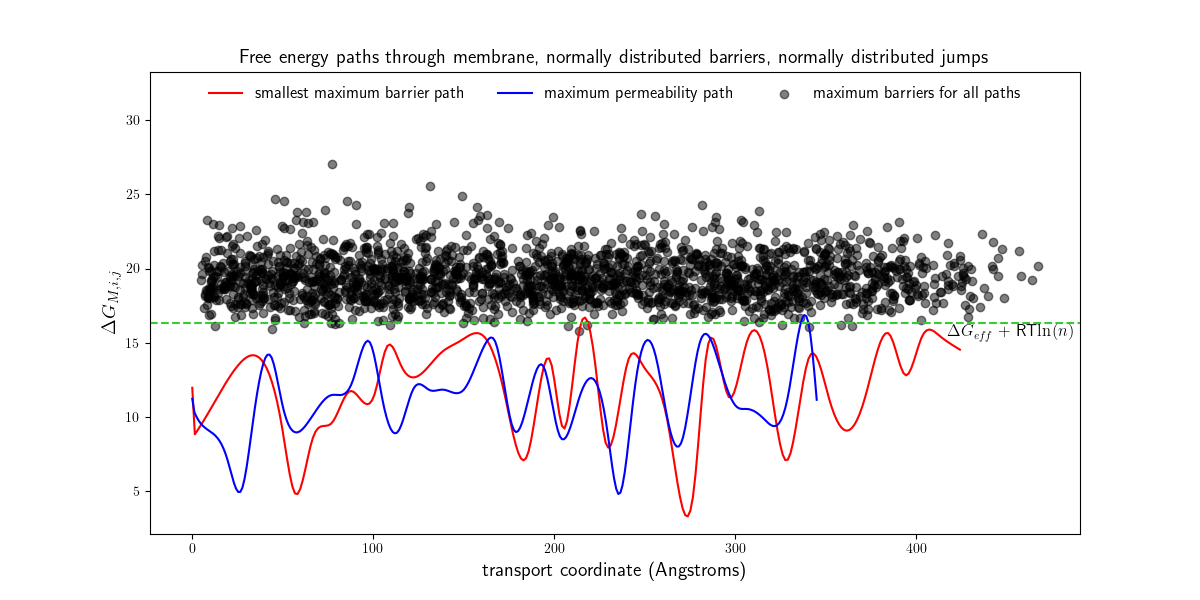
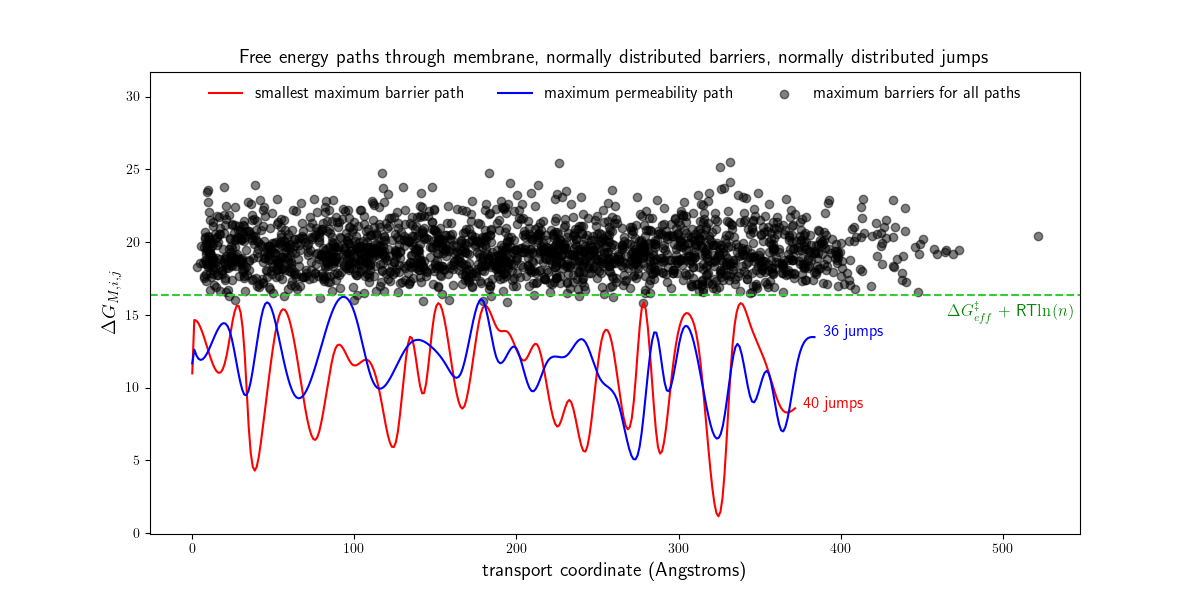
overall permeability is average of pores

diff --git a/run_analyses.py b/run_analyses.py
@@ -20,8 +20,8 @@ R = 1.9858775 * 10**-3     # universal gas (kcal / mol K)
 
 def parallel_pores(dH_barrier, dS_barrier, dH_sigma, dS_sigma, dG_barrier, T=300, multi=True):
 
-    n_paths = 50
-    n_jumps = 50
+    n_paths = 2000
+    n_jumps = 200
     fill = True
 
     print(f'\nCalculating effective barriers and fractions of permeability for {n_paths} paths through the membrane...')
@@ -136,29 +136,32 @@ def parallel_pores(dH_barrier, dS_barrier, dH_sigma, dS_sigma, dG_barrier, T=300
     # PLOTTING
 
     # plot the effective barrier, max barrier, and mean barrier
-    ax[0].axvline(effective_barrier_equal+R*T*np.log(n_paths), ls='dashed', c='k', label='$\Delta G_{eff}^{\ddag} + RT\ln(n)$', lw=2)
+    # ax[0].axvline(effective_barrier_equal+R*T*np.log(n_paths), ls='dashed', c='k', label='$\Delta G_{eff}^{\ddag} + RT\ln(n)$', lw=2)
+    ax[0].axvline(effective_barrier_equal, ls='dashed', c='k', label='$\Delta G_{eff}^{\ddag}$', lw=2)
     ax[0].axvline(dG_barrier, ls='dashed', c='r', label='mean', lw=2)
     ax[0].axvline(dG_barrier, ls='dashed', c='k', gapcolor='red', dashes=[4,4], lw=2)
     ax[0].legend(frameon=False, fontsize=12)
     ax[0].set_ylabel('Density', fontsize=14)
     ax[0].set_title(f'Series of equal barriers, standard deviation = 0 kcal/mol', fontsize=14)
 
-    ax[1].axvline(effective_barrier_norm+R*T*np.log(n_paths), ls='dashed', c='k', label='$\Delta G_{eff}^{\ddag} + RT\ln(n)$', lw=2)
+    # ax[1].axvline(effective_barrier_norm+R*T*np.log(n_paths), ls='dashed', c='k', label='$\Delta G_{eff}^{\ddag} + RT\ln(n)$', lw=2)
+    ax[1].axvline(effective_barrier_norm, ls='dashed', c='k', label='$\Delta G_{eff}^{\ddag}$', lw=2)
     ax[1].axvline(dG_barrier, ls='dashed', c='r', label='mean', lw=2)
     ax[1].legend(frameon=False, fontsize=12)
     ax[1].set_ylabel('Density', fontsize=14)
     ax[1].set_title(f'Normally distributed, standard deviation = {std_norm:.0f} kcal/mol', fontsize=14)
 
-    ax[2].axvline(effective_barrier_exp+R*T*np.log(n_paths), ls='dashed', c='k', label='$\Delta G_{eff}^{\ddag} + RT\ln(n)$', lw=2)
+    # ax[2].axvline(effective_barrier_exp+R*T*np.log(n_paths), ls='dashed', c='k', label='$\Delta G_{eff}^{\ddag} + RT\ln(n)$', lw=2)
+    ax[2].axvline(effective_barrier_exp, ls='dashed', c='k', label='$\Delta G_{eff}^{\ddag}$', lw=2)
     ax[2].axvline(dG_barrier, ls='dashed', c='r', label='mean', lw=2)
     ax[2].legend(frameon=False, fontsize=12)
     ax[2].set_ylabel('Density', fontsize=14)
     ax[2].set_title(f'Exponentially distributed, standard deviation = {std_exp:.0f} kcal/mol', fontsize=14)
 
     ax[2].set_xlabel('$\Delta G_{M,i,j}^{\ddag}$ (kcal/mol)', fontsize=14)
-    ax[2].set_xlim(0,)
+    ax[2].set_xlim(0,75)
 
-    plt.suptitle('Membrane barrier distributions for n=50 parallel paths through membrane', fontsize=14)
+    plt.suptitle(f'Membrane barrier distributions for n={n_paths} parallel paths through membrane', fontsize=14)
 
     print(f'Standard deviations: {std_equal} (equal), {std_norm} (normal), {std_exp} (exponential)')
 
@@ -820,10 +823,6 @@ def vary_everything(n_jumps_mu, jump_dist, jump_params, barrier_dist, barrier_pa
 
     model = EyringModel(T=T)
 
-    if plot:
-        # fig, ax = plt.subplots(2,1, figsize=(12,12))
-        fig, ax = plt.subplots(1,1, figsize=(12,6))
-
     all_barriers = []
     max_barriers = np.zeros((n_paths,2))
 
@@ -864,13 +863,21 @@ def vary_everything(n_jumps_mu, jump_dist, jump_params, barrier_dist, barrier_pa
     jumps = min_max_path.jump_lengths.cumsum()
     barriers = min_max_path.membrane_barriers
 
+    if min_max_idx == model.permeabilities.argmax():
+        return min_max_idx == model.permeabilities.argmax()
+
     if plot:
+        
+        # fig, ax = plt.subplots(2,1, figsize=(12,12))
+        fig, ax = plt.subplots(1,1, figsize=(12,6))
+
         path_spline = CubicSpline(jumps, barriers, bc_type='natural')
         xs = np.linspace(0, jumps.max(), num=300)
         ys = path_spline(xs)
         ys[0] = ys.mean()
-        # ax[0].plot(xs, ys, c='r', label='smallest maximum barrier path')
         ax.plot(xs, ys, c='r', label='smallest maximum barrier path')
+        # ax.scatter(jumps, barriers, marker='x', s=15, c='r')
+        ax.text(jumps[-1]+5, barriers[-1], f'{len(jumps)} jumps', c='r', fontsize=12)
 
     max_perm_path = model.paths[model.permeabilities.argmax()]
     jumps = max_perm_path.jump_lengths.cumsum()
@@ -881,50 +888,21 @@ def vary_everything(n_jumps_mu, jump_dist, jump_params, barrier_dist, barrier_pa
         xs = np.linspace(0, jumps.max(), num=300)
         ys = path_spline(xs)
         ys[0] = ys.mean()
-        # ax[0].plot(xs, ys, c='b', label='maximum permeability path')
         ax.plot(xs, ys, c='b', label='maximum permeability path')
-
-    # print(f'Max permeability index: {model.permeabilities.argmax()}')
+        # ax.scatter(jumps, barriers, marker='x', s=15, c='b')
+        ax.text(jumps[-1]+5, barriers[-1], f'{len(jumps)} jumps', c='b', fontsize=12)
 
     if plot:
 
-        # min_perm_path = model.paths[model.permeabilities.argmin()]
-        # jumps = min_perm_path.jump_lengths.cumsum()
-        # barriers = min_perm_path.membrane_barriers
-
-        # path_spline = CubicSpline(jumps, barriers, bc_type='natural')
-        # xs = np.linspace(0, jumps.max(), num=300)
-        # ys = path_spline(xs)
-        # ys[0] = ys.mean()
-        # ax[0].plot(xs, ys, c='brown', label='minimum permeability path')
-
-        # if barrier_dist not in ['exp','exponential'] and min_max_idx == model.permeabilities.argmax():
-        #     exit()
-
-        # ax[0].scatter(max_barriers[:,1], max_barriers[:,0], alpha=0.5, c='k', label='maximum barriers')
-        # sns.histplot(all_barriers, binwidth=1, edgecolor='k', ax=ax[1], stat='density')
-        ax.scatter(max_barriers[:,1], max_barriers[:,0], alpha=0.5, c='k', label='maximum barriers for all paths')
-
-        # ymin, ymax = ax[1].get_ylim()
-        # xmin, xmax = ax[0].get_xlim()
-        # ax[0].axhline(dG_eff, ls='dashed', c='limegreen')
-        # ax[0].text(xmax*0.85, dG_eff-5, '$\Delta G_{eff}$ + RT$\ln(n)$', c='k', ha='left')
-        # ax[1].axvline(dG_eff, ls='dashed', c='k')
-        # ax[1].text(dG_eff+0.5, ymax*0.9, '$\Delta G_{eff}$ + RT$\ln(n)$')
-
-        # ax[0].set_xlabel('transport coordinate (Angstroms)')
-        # ax[0].set_ylabel('$\Delta G_{m,i,j}$')
-        # ax[1].set_xlabel('$\Delta G_{m,i,j}$')
-        # ax[0].legend()
-
+        # ax.scatter(max_barriers[:,1], max_barriers[:,0], alpha=0.5, c='k', label='maximum barriers for all paths')
         xmin, xmax = ax.get_xlim()
         ymin, ymax = ax.get_ylim()
         ax.axhline(dG_eff, ls='dashed', c='limegreen')
-        ax.text(xmax*0.85, dG_eff-1, '$\Delta G_{eff}$ + RT$\ln(n)$', c='k', ha='left', fontsize=12)
+        ax.text(xmax*0.85, dG_eff+0.5, '$\Delta G_{eff}^{\ddag}$ + RT$\ln(n)$', ha='left', fontsize=12, c='green')
 
         ax.set_xlabel('transport coordinate (Angstroms)', fontsize=14)
         ax.set_ylabel('$\Delta G_{M,i,j}$', fontsize=14)
-        ax.set_ylim(ymin, ymax+5)
+        ax.set_ylim(ymin, ymax+3)
         ax.legend(frameon=False, fontsize=12, ncol=3, loc='upper center')
         ax.set_title('Free energy paths through membrane, normally distributed barriers, normally distributed jumps', fontsize=14)
 
@@ -949,7 +927,7 @@ if __name__ == '__main__':
     dG_barrier = dH_barrier - T*dS_barrier
 
     # Choose what analyses to run
-    # parallel_pores(dH_barrier, dS_barrier, dH_sigma, dS_sigma, dG_barrier, T=T, multi=multi)
+    parallel_pores(dH_barrier, dS_barrier, dH_sigma, dS_sigma, dG_barrier, T=T, multi=multi)
     # compare_effective_barriers(dH_barrier, dS_barrier, dH_sigma, dS_sigma, dG_barrier, T=T, multi=multi)
     # plot_paths(dH_barrier, dS_barrier, dH_sigma, dS_sigma, T=T, multi=multi)
     # compare_jump_lengths(dH_barrier, dS_barrier, n_paths, delta=400, T=T, multi=multi)
@@ -968,7 +946,9 @@ if __name__ == '__main__':
                       'cov': np.array([[dH_sigma**2, 0],
                                        [0, dS_sigma**2]])}
 
-    vary_everything(avg_jumps, jump_dist, jump_params, barrier_dist, barrier_params, n_paths=2000)
+    # is_equal = True
+    # while is_equal:
+    #     is_equal = vary_everything(avg_jumps, jump_dist, jump_params, barrier_dist, barrier_params, n_paths=2000)
 
 
     # n_iter = 1000

diff --git a/eyring_model.py b/eyring_model.py
@@ -65,13 +65,13 @@ class EyringModel:
 
     
     def calculate_permeability(self):
-        ''' Calculate overall permeability as a sum of single path permeabilities'''
+        ''' Calculate overall permeability as a mean of single path permeabilities'''
 
         self.permeabilities = np.zeros(self.n_paths)
         for n,p in enumerate(self.paths):
             self.permeabilities[n] = p.calculate_permeability()
 
-        self.permeability = self.permeabilities.sum()
+        self.permeability = self.permeabilities.mean()
         return self.permeability
     
 
@@ -84,7 +84,7 @@ class EyringModel:
         lam = self.get_lambda()
         delta = np.array(self.deltas).mean()
 
-        self.effective_barrier = -R*self.T * np.log(delta / lam**2 * h / kB / self.T * self.permeabilities.sum() * 10**10 / 1000 / 60 / 60)
+        self.effective_barrier = -R*self.T * np.log(delta / lam**2 * h / kB / self.T * self.permeabilities.mean() * 10**10 / 1000 / 60 / 60)
 
         return self.effective_barrier
 
